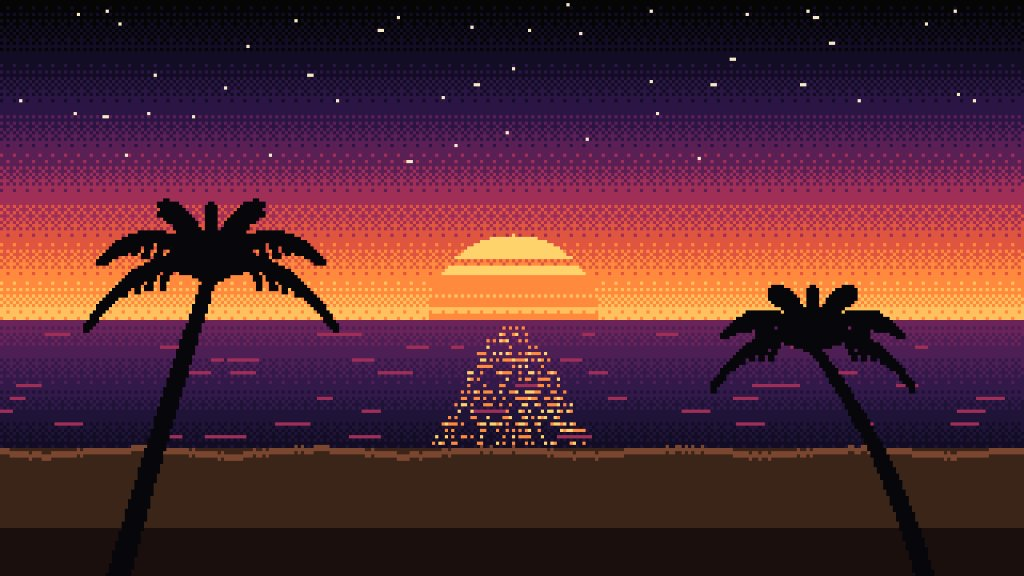
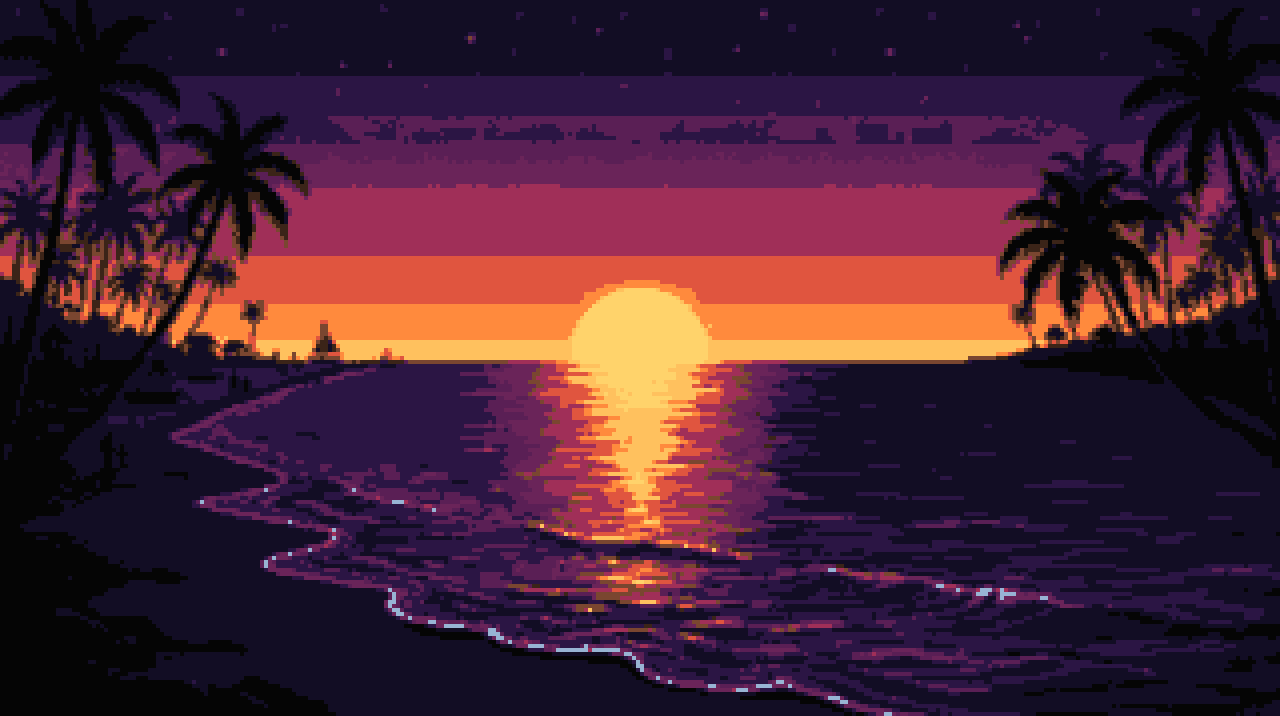
feat(hero): refactor hero to fit on one screen with text on left and action buttons on right, update with high-aesthetic Gemini pixel scenes

diff --git a/apps/web/src/components/Hero.tsx b/apps/web/src/components/Hero.tsx
@@ -3,67 +3,65 @@
 import { useEffect, useState } from "react";
 import Image from "next/image";
 import Link from "next/link";
-import { ArrowRight, Terminal, Download, CheckCircle2, Clock, ChevronDown, Radio, Activity, ShieldCheck } from "lucide-react";
+import {
+  ArrowRight,
+  Terminal,
+  Download,
+  CheckCircle2,
+  Clock,
+  ChevronDown,
+  Copy,
+  Check,
+  ShieldCheck,
+  Sparkles,
+} from "lucide-react";
 import { GITHUB_REPO_URL, LATEST_VERSION } from "@/lib/utils";
 import TactileButton from "@/components/primitives/TactileButton";
 import DecryptText from "@/components/motion/DecryptText";
 
 export default function Hero() {
   const [timeStr, setTimeStr] = useState<string>("00:00:00 UTC");
-  const [scrollY, setScrollY] = useState(0);
+  const [copied, setCopied] = useState(false);
 
   useEffect(() => {
-    // Clock update
     const updateTime = () => {
       const now = new Date();
       setTimeStr(now.toTimeString().split(" ")[0] + " UTC");
     };
     updateTime();
     const interval = setInterval(updateTime, 1000);
-
-    // Parallax update (Recipe A2)
-    const handleScroll = () => {
-      // Limit to 8% of scroll
-      setScrollY(window.scrollY * 0.08);
-    };
-
-    const prefersReducedMotion = window.matchMedia("(prefers-reduced-motion: reduce)").matches;
-    if (!prefersReducedMotion) {
-      window.addEventListener("scroll", handleScroll, { passive: true });
-    }
-
-    return () => {
-      clearInterval(interval);
-      window.removeEventListener("scroll", handleScroll);
-    };
+    return () => clearInterval(interval);
   }, []);
 
+  const handleCopyCmd = () => {
+    navigator.clipboard.writeText("cargo install aek-cli");
+    setCopied(true);
+    setTimeout(() => setCopied(false), 2000);
+  };
+
   return (
-    <section className="relative min-h-[95vh] flex flex-col justify-between pt-8 pb-12 px-4 sm:px-6 lg:px-8 overflow-hidden bg-space-black">
-      {/* 16-bit Coastal Pixel Art Background with Ambient Parallax (A2) */}
-      <div
-        className="absolute inset-0 z-0 overflow-hidden pointer-events-none select-none transition-transform duration-75 ease-out"
-        style={{ transform: `translate3d(0, ${scrollY}px, 0)` }}
-      >
+    <section className="relative min-h-[calc(100vh-4.5rem)] lg:h-[calc(100vh-4.5rem)] flex flex-col justify-between py-6 px-4 sm:px-6 lg:px-8 overflow-hidden bg-space-black">
+      {/* 16-bit Coastal Pixel Art Background */}
+      <div className="absolute inset-0 z-0 overflow-hidden pointer-events-none select-none">
         <Image
           src="/images/hero-scene@4x.png"
           alt="16-bit Coastal Sunset Pixel Art"
           fill
           priority
           sizes="100vw"
-          className="object-cover object-bottom opacity-25 mix-blend-screen pixelated"
+          className="object-cover object-bottom opacity-30 mix-blend-screen pixelated"
         />
         {/* Coastal sunset gradient overlay */}
-        <div className="absolute inset-0 bg-gradient-to-t from-space-black via-space-black/80 to-transparent" />
+        <div className="absolute inset-0 bg-gradient-to-t from-space-black via-space-black/75 to-transparent" />
         <div className="absolute inset-0 bg-tactile-grid opacity-15" />
       </div>
 
-      <div className="max-w-content w-full mx-auto relative z-10 grid grid-cols-1 lg:grid-cols-12 gap-12 items-center my-auto">
-        {/* Left Column: Editorial Headline & Actions */}
+      {/* Main One-Page Fit Grid */}
+      <div className="max-w-content w-full mx-auto relative z-10 grid grid-cols-1 lg:grid-cols-12 gap-8 lg:gap-12 items-center my-auto">
+        {/* Left Column: Text & Editorial Hierarchy (Left te text show kr) */}
         <div className="lg:col-span-7 flex flex-col items-center lg:items-start text-center lg:text-left">
-          
-          {/* Classified Radar & Time Awareness Beacon (A2 & A3) */}
-          <div className="inline-flex flex-wrap items-center gap-2 px-3.5 py-1.5 rounded-full border-2 border-primary-gold/40 bg-space-violet/90 text-xs font-mono text-primary-gold mb-6 shadow-hard-sm">
+          {/* Classified Radar & Time Awareness Beacon */}
+          <div className="inline-flex flex-wrap items-center gap-2 px-3.5 py-1.5 rounded-full border-2 border-primary-gold/40 bg-space-surface/90 text-xs font-mono text-primary-gold mb-4 sm:mb-6 shadow-hard-sm">
             <span className="relative flex h-2.5 w-2.5">
               <span className="animate-ping absolute inline-flex h-full w-full rounded-full bg-emerald-400 opacity-75" />
               <span className="relative inline-flex rounded-full h-2.5 w-2.5 bg-emerald-500" />
@@ -81,7 +79,7 @@ export default function Hero() {
           </div>
 
           {/* Primary Editorial Headline */}
-          <h1 className="font-editorial text-5xl sm:text-7xl lg:text-8xl text-paper-beige tracking-tight leading-[1.02] mb-6">
+          <h1 className="font-editorial text-4xl sm:text-6xl lg:text-7xl xl:text-8xl text-paper-beige tracking-tight leading-[1.04] mb-4">
             One Engineering Kit. <br />
             <span className="italic font-normal text-gradient-editorial">
               Autonomous Precision.
@@ -89,145 +87,100 @@ export default function Hero() {
           </h1>
 
           {/* Secondary Subtitle */}
-          <p className="text-lg sm:text-xl text-sand/90 font-normal max-w-2xl leading-relaxed mb-4">
+          <p className="text-base sm:text-lg lg:text-xl text-sand/90 font-normal max-w-2xl leading-relaxed mb-3">
             The high-performance Rust foundation built for developers who ship software with autonomous AI agents.
           </p>
 
-          <p className="text-xs sm:text-sm text-secondary-text max-w-xl mb-8">
-            Unify global engineering rules, 15 specialized skills, Model Context Protocol (MCP), and automated test-driven validation with <strong className="text-primary-gold font-bold">ruthless precision</strong> across Antigravity, Claude Code, Cursor, and OpenCode.
+          <p className="text-xs sm:text-sm text-secondary-text max-w-xl mb-6">
+            Unify global engineering rules, 15 specialized skills, Model Context Protocol (MCP), and automated test-driven validation with{" "}
+            <strong className="text-primary-gold font-bold">ruthless precision</strong> across Antigravity, Claude Code, Cursor, and OpenCode.
           </p>
 
-          {/* Action CTAs - Neo-Brutalist Tactile Buttons with Hotkeys */}
-          <div className="flex flex-wrap items-center justify-center lg:justify-start gap-4 mb-10">
-            <Link href="/download">
-              <TactileButton variant="gold" size="lg" hotkey="D" className="flex items-center gap-2">
-                <Download className="w-4 h-4 text-space-black" />
-                <span>Get AEK v{LATEST_VERSION}</span>
-              </TactileButton>
-            </Link>
-
-            <Link href="/docs/getting-started">
-              <TactileButton variant="secondary" size="lg" hotkey="G" className="flex items-center gap-2">
-                <span>Quickstart Guide</span>
-                <ArrowRight className="w-4 h-4 text-warm-orange" />
-              </TactileButton>
-            </Link>
-
-            <a
-              href={GITHUB_REPO_URL}
-              target="_blank"
-              rel="noopener noreferrer"
-              className="inline-block"
-            >
-              <TactileButton variant="terminal" size="lg" hotkey="C" className="flex items-center gap-2">
-                <Terminal className="w-4 h-4 text-primary-gold" />
-                <span>cargo install aek-cli</span>
-              </TactileButton>
-            </a>
-          </div>
-
-          {/* Verified Quality Badges */}
-          <div className="flex flex-wrap items-center justify-center lg:justify-start gap-6 text-xs text-sand/80 pt-6 border-t border-space-border/60">
+          {/* Verified Quality Invariants */}
+          <div className="flex flex-wrap items-center justify-center lg:justify-start gap-4 sm:gap-6 text-xs text-sand/80 pt-4 border-t border-space-border/60">
             <div className="flex items-center gap-2">
-              <CheckCircle2 className="w-4 h-4 text-emerald-400" />
+              <CheckCircle2 className="w-4 h-4 text-emerald-400 shrink-0" />
               <span>Zero Shell-Injection Risk</span>
             </div>
             <div className="flex items-center gap-2">
-              <CheckCircle2 className="w-4 h-4 text-emerald-400" />
+              <CheckCircle2 className="w-4 h-4 text-emerald-400 shrink-0" />
               <span>Sub-50 MB Memory Footprint</span>
             </div>
             <div className="flex items-center gap-2">
-              <CheckCircle2 className="w-4 h-4 text-emerald-400" />
+              <CheckCircle2 className="w-4 h-4 text-emerald-400 shrink-0" />
               <span>Cryptographic Rollbacks</span>
             </div>
           </div>
         </div>
 
-        {/* Right Column: 16-Bit Coastal Pixel Radar Station & HUD Telemetry */}
-        <div className="lg:col-span-5 relative flex items-center justify-center">
-          <div className="relative w-full max-w-[480px] rounded-3xl bg-space-black/95 border-2 border-primary-gold/40 p-6 shadow-hard-lg overflow-hidden group">
-            {/* Ambient sunset glow backdrop */}
-            <div className="absolute inset-0 bg-gradient-to-tr from-warm-orange/15 via-burnt-orange/10 to-transparent pointer-events-none" />
-            <div className="absolute inset-0 bg-tactile-grid opacity-20 pointer-events-none" />
-
-            {/* Tactical Classified Header Bar */}
-            <div className="flex items-center justify-between border-b-2 border-space-border/80 pb-3 mb-4 text-xs font-mono">
+        {/* Right Column: Tactical Action Deck & Buttons (Right button) */}
+        <div className="lg:col-span-5 flex flex-col items-center justify-center w-full max-w-md mx-auto lg:mx-0">
+          <div className="w-full rounded-2xl bg-space-surface/95 border-2 border-primary-gold/40 p-6 shadow-hard-lg relative backdrop-blur-md">
+            {/* Terminal Card Header */}
+            <div className="flex items-center justify-between pb-3 mb-5 border-b-2 border-space-border text-xs font-mono">
               <div className="flex items-center gap-2">
                 <span className="w-2.5 h-2.5 rounded-full bg-emerald-400 animate-pulse" />
-                <span className="font-bold text-paper-beige">COASTAL_RADAR::STATION_00</span>
+                <span className="font-bold text-paper-beige">AEK_LAUNCH_DECK</span>
               </div>
-              <span className="text-[11px] text-primary-gold font-bold">1420.405 MHz</span>
+              <span className="text-[11px] text-primary-gold font-bold">v{LATEST_VERSION} RUST</span>
             </div>
 
-            {/* Pixel Art Visual Showcase: Beach Shack & Horizon */}
-            <div className="relative w-full h-56 rounded-2xl border-2 border-space-border overflow-hidden bg-space-deep flex items-center justify-center">
-              <Image
-                src="/images/beach-shack@4x.png"
-                alt="16-bit Beach Shack Terminal at Dusk"
-                fill
-                sizes="(max-width: 768px) 100vw, 480px"
-                className="object-cover pixelated"
-                priority
-              />
-              <div className="absolute inset-0 bg-gradient-to-t from-space-black/80 via-transparent to-transparent pointer-events-none" />
+            {/* Action Buttons Stack */}
+            <div className="space-y-3.5">
+              {/* Primary Download Button */}
+              <Link href="/download" className="block w-full">
+                <TactileButton variant="gold" size="lg" hotkey="D" className="w-full flex items-center justify-center gap-2.5 text-space-black font-bold text-sm">
+                  <Download className="w-4 h-4 text-space-black" />
+                  <span>Get AEK v{LATEST_VERSION}</span>
+                </TactileButton>
+              </Link>
 
-              {/* Radar Crosshair Sweep Overlay */}
-              <div className="absolute inset-0 pointer-events-none border border-primary-gold/20 flex items-center justify-center">
-                <div className="w-24 h-24 rounded-full border border-primary-gold/30 animate-radar" />
-                <div className="absolute w-full h-[1px] bg-primary-gold/20" />
-                <div className="absolute h-full w-[1px] bg-primary-gold/20" />
-              </div>
+              {/* Quickstart Guide Button */}
+              <Link href="/docs/getting-started" className="block w-full">
+                <TactileButton variant="secondary" size="lg" hotkey="G" className="w-full flex items-center justify-center gap-2 text-paper-beige font-semibold text-sm">
+                  <span>Quickstart Guide</span>
+                  <ArrowRight className="w-4 h-4 text-warm-orange" />
+                </TactileButton>
+              </Link>
 
-              {/* Inset Pixel Crest Badge */}
-              <div className="absolute top-3 right-3 w-12 h-12 rounded-xl bg-space-black/80 border border-primary-gold/60 p-1 shadow-hard-sm">
-                <Image
-                  src="/images/radar-crest@4x.png"
-                  alt="Coastal Radar Crest"
-                  width={40}
-                  height={40}
-                  className="pixelated object-contain"
-                />
-              </div>
-
-              {/* Live Tactical Overlay Readout */}
-              <div className="absolute bottom-3 left-3 px-2.5 py-1 rounded bg-space-black/90 border border-warm-orange/50 text-[10px] font-mono text-warm-orange flex items-center gap-1.5 shadow-hard-sm">
-                <Radio className="w-3 h-3 text-warm-orange animate-pulse" />
-                <span>RUST_SUBPROCESS::ACTIVE</span>
-              </div>
-            </div>
-
-            {/* Telemetry Metric Matrix */}
-            <div className="grid grid-cols-3 gap-2.5 mt-4 font-mono text-center">
-              <div className="p-2.5 rounded-xl bg-space-surface border border-space-border/80">
-                <span className="block text-[10px] text-sand/60">KERNEL</span>
-                <span className="text-xs font-bold text-primary-gold">AEK_v{LATEST_VERSION}</span>
-              </div>
-              <div className="p-2.5 rounded-xl bg-space-surface border border-space-border/80">
-                <span className="block text-[10px] text-sand/60">MEMORY</span>
-                <span className="text-xs font-bold text-emerald-400">&lt; 32MB</span>
-              </div>
-              <div className="p-2.5 rounded-xl bg-space-surface border border-space-border/80">
-                <span className="block text-[10px] text-sand/60">GATES</span>
-                <span className="text-xs font-bold text-paper-beige">8/8 PASS</span>
+              {/* Cargo CLI Install Command Box */}
+              <div className="pt-2">
+                <div className="flex items-center justify-between text-[11px] font-mono text-sand/70 mb-1.5 px-1">
+                  <span>RUST CRATE INSTALLATION</span>
+                  <span className="text-primary-gold font-bold">[C]</span>
+                </div>
+                <div className="flex items-center justify-between gap-2 p-3 rounded-xl bg-space-black border-2 border-space-border text-xs font-mono shadow-hard-sm">
+                  <div className="flex items-center gap-2 text-paper-beige overflow-hidden">
+                    <Terminal className="w-4 h-4 text-primary-gold shrink-0" />
+                    <code className="text-primary-gold select-all truncate">cargo install aek-cli</code>
+                  </div>
+                  <button
+                    onClick={handleCopyCmd}
+                    className="p-1.5 rounded-lg bg-space-surface border border-primary-gold/40 text-primary-gold hover:text-paper-beige hover:border-primary-gold transition-colors shrink-0"
+                    title="Copy command"
+                  >
+                    {copied ? <Check className="w-3.5 h-3.5 text-emerald-400" /> : <Copy className="w-3.5 h-3.5" />}
+                  </button>
+                </div>
               </div>
             </div>
 
-            {/* Dimensional Classified Caption */}
-            <div className="mt-4 pt-3 border-t border-space-border/60 flex items-center justify-between text-[11px] font-mono text-sand/70">
+            {/* Platform Badges */}
+            <div className="mt-5 pt-3.5 border-t border-space-border/60 flex items-center justify-between text-[10px] font-mono text-sand/60">
               <span className="flex items-center gap-1.5">
                 <ShieldCheck className="w-3.5 h-3.5 text-emerald-400" />
-                <span>NO TELEMETRY • OFFLINE-FIRST</span>
+                <span>OFFLINE-FIRST</span>
               </span>
-              <span className="text-primary-gold font-bold">15°29&apos;N 73°49&apos;E</span>
+              <span>WINDOWS • MACOS • LINUX</span>
             </div>
           </div>
         </div>
       </div>
 
-      {/* A2: SCROLL Cue Indicator */}
-      <div className="w-full flex flex-col items-center justify-center pt-8 text-[11px] font-mono text-primary-gold/70 select-none">
-        <span className="tracking-widest uppercase mb-1">▼ SCROLL TO DECRYPT SYSTEM</span>
-        <ChevronDown className="w-4 h-4 animate-bounce text-warm-orange" />
+      {/* Subtle Scroll Cue */}
+      <div className="w-full flex flex-col items-center justify-center pt-2 pb-1 text-[10px] font-mono text-primary-gold/70 select-none">
+        <span className="tracking-widest uppercase mb-0.5">▼ SCROLL TO DECRYPT SYSTEM</span>
+        <ChevronDown className="w-3.5 h-3.5 animate-bounce text-warm-orange" />
       </div>
     </section>
   );

diff --git a/apps/web/src/components/OpenSourceSection.tsx b/apps/web/src/components/OpenSourceSection.tsx
@@ -29,15 +29,16 @@ export default function OpenSourceSection() {
   return (
     <section className="py-24 px-4 sm:px-6 lg:px-8 bg-space-black border-t border-space-border relative overflow-hidden">
       <div className="max-w-4xl mx-auto rounded-3xl p-8 sm:p-12 border-2 border-primary-gold/40 bg-space-deep shadow-hard-md text-center relative z-10">
-        {/* Coastal Builder Motif: Laptop on Sand Pixel Art */}
-        <div className="w-24 h-24 mx-auto mb-5 rounded-2xl bg-space-black/90 border-2 border-primary-gold/50 p-2 shadow-hard-md flex items-center justify-center group hover:border-warm-orange transition-all">
+        {/* Coastal Builder Motif: Aesthetic Laptop on Sand Pixel Art */}
+        <div className="relative w-56 sm:w-72 h-32 sm:h-40 mx-auto mb-6 rounded-2xl bg-space-black/90 border-2 border-primary-gold/50 shadow-hard-md overflow-hidden group hover:border-warm-orange transition-all">
           <Image
             src="/images/laptop-sand@4x.png"
             alt="Pixel Art Laptop on Coastal Beach Sand"
-            width={80}
-            height={80}
-            className="pixelated object-contain"
+            fill
+            className="pixelated object-cover"
+            priority
           />
+          <div className="absolute inset-0 bg-gradient-to-t from-space-black/60 via-transparent to-transparent pointer-events-none" />
         </div>
 
         <div className="inline-flex items-center gap-2 px-3.5 py-1.5 rounded-full border border-primary-gold/40 bg-space-surface text-xs font-mono text-primary-gold mb-6 font-bold shadow-hard-sm">

diff --git a/apps/web/src/tests/components.test.tsx b/apps/web/src/tests/components.test.tsx
@@ -223,9 +223,9 @@ describe("ScrollStorytelling (Picture scene audit)", () => {
 });
 
 describe("Hero Component without 3D canvas", () => {
-  it("renders coastal radar station and has 0 canvas elements", () => {
+  it("renders tactical launcher deck on the right and has 0 canvas elements", () => {
     const { container } = render(<Hero />);
-    expect(screen.getByText(/COASTAL_RADAR::STATION_00/i)).toBeDefined();
+    expect(screen.getByText(/AEK_LAUNCH_DECK/i)).toBeDefined();
     expect(container.querySelectorAll("canvas").length).toBe(0);
   });
 });
